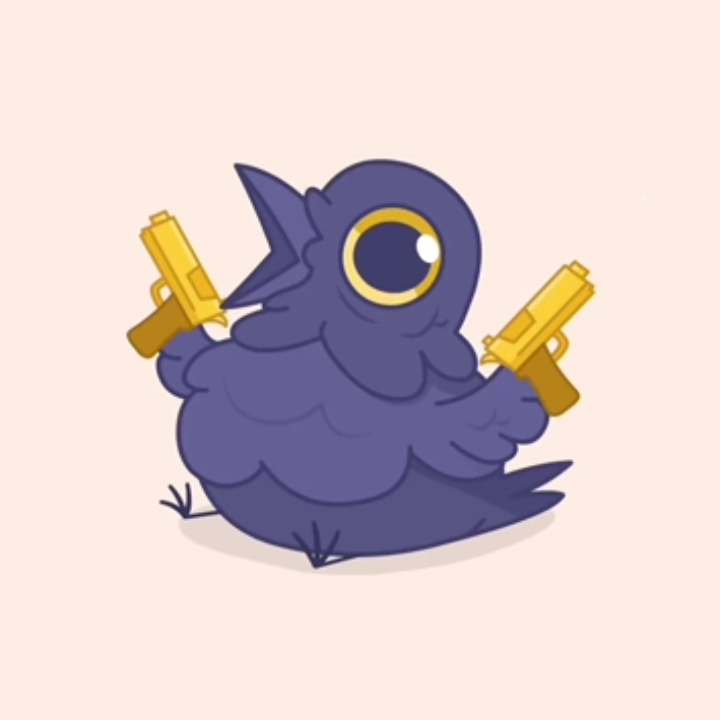
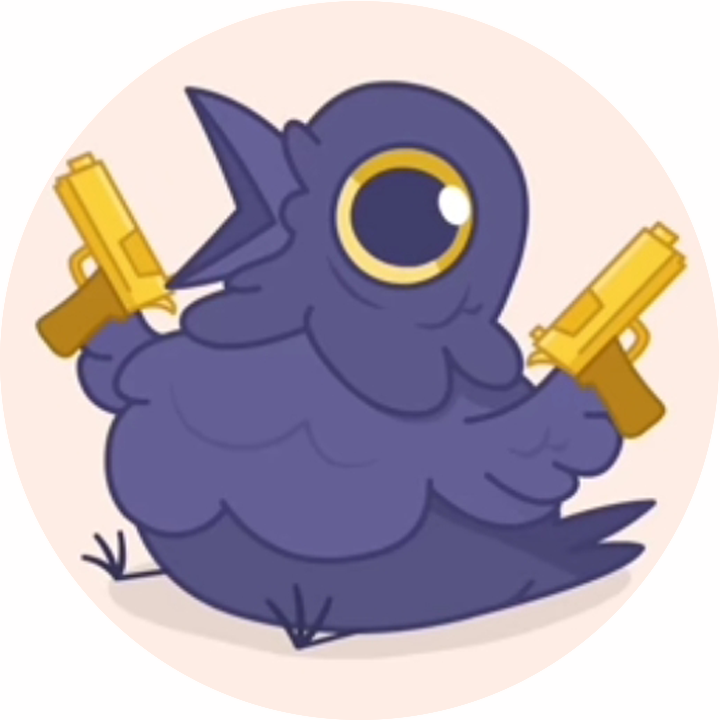
Stable 02.05.22 6:43 GW
+ Website icon is setted up
+ Added Bedroom menu
~~ Add more munues --> complite navigation

diff --git a/main.html b/main.html
@@ -5,7 +5,7 @@
     <link rel="stylesheet" href="main.css">
     <link rel="stylesheet" href="/css/master.css">
     <!-- ☲☲☲☲ WEBSITE ICON ☲☲☲☲ -->
-    <link rel="icon" type="image/png" sizes="720x720" href="source/image/birdPFP.png">
+    <link rel="icon" type="image/x-icon" href="source/images/birdPFP2.ico">
     <title>Burrow</title>
   </head>
   <body>
@@ -167,7 +167,6 @@
 
             </div>
             <!-- ∾∾∾∾∾∾ LIVING ROOM ∾∾∾∾∾∾ -->
-
             <div class="navigation-position">
               <button class="navigation-position-button" id="livingroom-button" onclick="rotateLivingroomArrow(), openLivingroomMenu(), chooseMenuFunction()">
                 <span>Living Room</span><img src="source/images/arrow.png" alt="arrow" id="livingroom-arrow">
@@ -294,6 +293,115 @@
 
 
             </div>
+            <!-- ∾∾∾∾∾∾ BEDROOM ∾∾∾∾∾∾ -->
+            <div class="navigation-position">
+              <button class="navigation-position-button" id="bedroom-button" onclick="rotateBedroomArrow(), openBedroomMenu(), chooseMenuFunction()">
+                <span>Bedroom</span><img src="source/images/arrow.png" alt="arrow" id="bedroom-arrow">
+              </button>
+              <!-- ☲☲☲☲ LINK CONTENT ☲☲☲☲ -->
+              <div class="navigation-position-drawer" id="bedroom-dropdown">
+                <div class="navigation-position-drawer_content">
+                  <div class="navigation-dropdown">
+                    <button class="links-section-item">
+                      <span class="header">Beds</span>
+                    </button>
+                    <div class="navigation-dropdown_content">
+                      <a href="#">Circa Wood Bed</a>
+                    </div>
+                    <div class="navigation-dropdown_content">
+                      <a href="#">Circa Upholstered Bed</a>
+                    </div>
+                    <div class="navigation-dropdown_content special">
+                      <a href="#">All Beds</a>
+                    </div>
+                  </div>
+                  <div class="navigation-dropdown">
+                    <button class="links-section-item">
+                      <span class="header">Mattresses</span>
+                    </button>
+                    <div class="navigation-dropdown_content">
+                      <a href="#">Lyric Foam Mattress</a>
+                    </div>
+                    <div class="navigation-dropdown_content">
+                      <a href="#">Lyric Hybrid Mattress</a>
+                    </div>
+                    <div class="navigation-dropdown_content">
+                      <a href="#">Mattress Protector</a>
+                    </div>
+                    <div class="navigation-dropdown_content special">
+                      <a href="#">Compare Mattresses</a>
+                    </div>
+                  </div>
+                  <div class="navigation-dropdown">
+                    <button class="links-section-item">
+                      <span class="header">Storage</span>
+                    </button>
+                    <div class="navigation-dropdown_content">
+                      <a href="#">Dressers</a>
+                    </div>
+                    <div class="navigation-dropdown_content">
+                      <a href="#">Nightstands</a>
+                    </div>
+                    <div class="navigation-dropdown_content">
+                      <a href="#">Wall Shelves</a>
+                    </div>
+                    <div class="navigation-dropdown_content">
+                      <a href="#">Benches</a>
+                    </div>
+                    <div class="navigation-dropdown_content special">
+                      <a href="#">All Bedroom Storage</a>
+                    </div>
+                  </div>
+                  <div class="navigation-dropdown">
+                    <button class="links-section-item">
+                      <span class="header">Bedding & Accessories</span>
+                    </button>
+                    <div class="navigation-dropdown_content">
+                      <a href="#">4-Piece Sheet Set</a>
+                    </div>
+                    <div class="navigation-dropdown_content">
+                      <a href="#">3-Piece Sheet Set</a>
+                    </div>
+                    <div class="navigation-dropdown_content">
+                      <a href="#">Duvet Cover</a>
+                    </div>
+                    <div class="navigation-dropdown_content">
+                      <a href="#">Duvet Insert</a>
+                    </div>
+                    <div class="navigation-dropdown_content">
+                      <a href="#">Pillowcase Set</a>
+                    </div>
+                    <div class="navigation-dropdown_content">
+                      <a href="#">Pillow Insert</a>
+                    </div>
+                    <div class="navigation-dropdown_content">
+                      <a href="#">Lighting</a>
+                    </div>
+                    <div class="navigation-dropdown_content">
+                      <a href="#">Throw Pillows & Blankets</a>
+                    </div>
+                    <div class="navigation-dropdown_content special">
+                      <a href="#">All Bedding</a>
+                    </div>
+                  </div>
+                  <!-- ☲☲☲☲ IMAGES ☲☲☲☲ -->
+                  <div class="images">
+                    <a class="image" href="#" id="image1">
+                      <div class="images_point-title">
+                        <p>Featured</p>
+                      </div>
+                      <img src="source/images/Bedroom-Ratio.png" alt="sofa fabric">
+                      <div class="images_point-description">
+                        <p>The Better Bedroom</p>
+                        <span>LEARN MORE</span>
+                      </div>
+                    </a>
+                  </div>
+                </div>
+              </div>
+
+
+            </div>
           </div>
         </div>
       </nav>
@@ -403,7 +511,43 @@
       }, 100);
     }
   }
+  // ⇋⇋⇋⇋⇋⇋⇋⇋⇋⇋⇋⇋⇋⇋⇋⇋⇋⇋⇋⇋⇋⇋⇋⇋⇋⇋⇋⇋⇋⇋⇋⇋⇋⇋⇋⇋⇋⇋⇋⇋⇋⇋⇋⇋⇋⇋⇋⇋⇋⇋⇋⇋⇋⇋⇋⇋⇋⇋⇋⇋⇋⇋⇋⇋⇋⇋⇋⇋⇋⇋⇋⇋⇋⇋⇋
+  // ☲☲☲☲ OPEN + CLOSE BEDROOM MENU ☲☲☲☲
 
+    function rotateBedroomArrow(){
+      var bedroomArrow = document.getElementById("bedroom-arrow");
+      // ⇋⇋⇋⇋⇋ FUNCTION ⇋⇋⇋⇋⇋
+      setTimeout(() => {
+        bedroomArrow.classList.toggle("active");
+
+      }, 010)
+    }
+    function openBedroomMenu(){
+      var bedroomDropdown = document.getElementById("bedroom-dropdown");
+      var shadow = document.getElementById("boxShadow");
+      // ⇋⇋⇋⇋⇋ FUNCTION ⇋⇋⇋⇋⇋
+      if (bedroomDropdown.classList.contains('active')) {
+        shadow.classList.remove('active');
+        bedroomDropdown.classList.remove("active");
+        setTimeout(() => {
+            bedroomDropdown.classList.add("hidden");
+
+        }, 200);
+        setTimeout(() => {
+          shadow.classList.add('hidden');
+        }, 000)
+      }else {
+        bedroomDropdown.classList.remove("hidden");
+        shadow.classList.remove('hidden');
+        setTimeout(() => {
+          bedroomDropdown.classList.add("active");
+
+        }, 150);
+        setTimeout(() => {
+          shadow.classList.add('active');
+        }, 100);
+      }
+    }
 // ⇋⇋⇋⇋⇋⇋⇋⇋⇋⇋⇋⇋⇋⇋⇋⇋⇋⇋⇋⇋⇋⇋⇋⇋⇋⇋⇋⇋⇋⇋⇋⇋⇋⇋⇋⇋⇋⇋⇋⇋⇋⇋⇋⇋⇋⇋⇋⇋⇋⇋⇋⇋⇋⇋⇋⇋⇋⇋⇋⇋⇋⇋⇋⇋⇋⇋⇋⇋⇋⇋⇋⇋⇋⇋⇋
 
   // ☲☲☲☲ CLOSE ALL DROPDOWNS ☲☲☲☲
@@ -414,20 +558,24 @@
     // ⇋⇋⇋⇋⇋⇋⇋⇋⇋⇋ ROTATE ARROWS ⇋⇋⇋⇋⇋⇋⇋⇋⇋⇋
     var livingroomArrow = document.getElementById("livingroom-arrow");
     var seatingArrow = document.getElementById("seating-arrow");
+    var bedroomArrow = document.getElementById("bedroom-arrow");
 
     // ⇋⇋⇋⇋⇋ FUNCTION ⇋⇋⇋⇋⇋
-    livingroomArrow.classList.remove("active");
     seatingArrow.classList.remove("active");
+    livingroomArrow.classList.remove("active");
+    bedroomArrow.classList.remove("active");
 
     // ⇋⇋⇋⇋⇋⇋⇋⇋⇋⇋ CLOSE MENUS ⇋⇋⇋⇋⇋⇋⇋⇋⇋⇋
-    var livingroomDropdown = document.getElementById("livingroom-dropdown");
     var seatingDropdown = document.getElementById("seating-dropdown");
+    var livingroomDropdown = document.getElementById("livingroom-dropdown");
+    var bedroomDropdown = document.getElementById("bedroom-dropdown");
 
 
     var shadow = document.getElementById("boxShadow");
     // ⇋⇋⇋⇋⇋ FUNCTION ⇋⇋⇋⇋⇋
-    livingroomDropdown.classList.remove("active");
     seatingDropdown.classList.remove("active");
+    livingroomDropdown.classList.remove("active");
+    bedroomDropdown.classList.remove("active");
 
     shadow.classList.remove('active');
 
@@ -438,24 +586,30 @@
   function chooseMenuFunction(){
     var seatingArrow = document.getElementById("seating-arrow");
     var livingroomArrow = document.getElementById("livingroom-arrow");
+    var bedroomArrow = document.getElementById("bedroom-arrow");
 
     var seatingDropdown = document.getElementById("seating-dropdown");
     var livingroomDropdown = document.getElementById("livingroom-dropdown");
+    var bedroomDropdown = document.getElementById("bedroom-dropdown");
 
     var active = "active";
     // ⇋⇋⇋⇋⇋ FUNCTION ⇋⇋⇋⇋⇋
-    for ( active in seatingDropdown.classList || livingroomDropdown.classList) {
+    for ( active in seatingDropdown.classList || livingroomDropdown.classList || bedroomDropdown.classList) {
       console.log("class active contains");
       // ⇋⇋⇋⇋⇋⇋⇋⇋⇋⇋ CLOSE MENUS ⇋⇋⇋⇋⇋⇋⇋⇋⇋⇋
-      livingroomDropdown.classList.remove("active");
       seatingDropdown.classList.remove("active");
+      livingroomDropdown.classList.remove("active");
+      bedroomDropdown.classList.remove("active");
+
       break;
     }
-    for ( active in seatingArrow.classList || livingroomArrow.classList) {
+    for ( active in seatingArrow.classList || livingroomArrow.classList || bedroomArrow.classList) {
       console.log("arrow class active contains");
       // ⇋⇋⇋⇋⇋⇋⇋⇋⇋⇋ ROTATE ARROWS ⇋⇋⇋⇋⇋⇋⇋⇋⇋⇋
-      livingroomArrow.classList.remove("active");
       seatingArrow.classList.remove("active");
+      livingroomArrow.classList.remove("active");
+      bedroomArrow.classList.remove("active");
+
       break;
     }
   }

diff --git a/main.css b/main.css
@@ -377,6 +377,9 @@ body .header-navigation .header-navigation-content .header-menu-desktop .navigat
   padding: .5rem 0;
   font-size: 0.8rem;
 }
+body .header-navigation .header-navigation-content .header-menu-desktop .navigation .navigation-position .navigation-position-drawer .navigation-position-drawer_content .navigation-dropdown .navigation-dropdown_content a:hover {
+  color: #795548;
+}
 body .header-navigation .header-navigation-content .header-menu-desktop .navigation .navigation-position .navigation-position-drawer .navigation-position-drawer_content .images {
   width: auto;
   display: -webkit-box;

diff --git a/main.less b/main.less
@@ -284,6 +284,9 @@ body{
                       color: rgba(56,54,51,.75);
                       padding: .5rem 0;
                       font-size: 0.8rem;
+                      &:hover{
+                        color: #795548;
+                      }
                     }
                   }
                 }
@@ -345,7 +348,7 @@ body{
               }
 
             }
-            
+
           }
         }
       }
